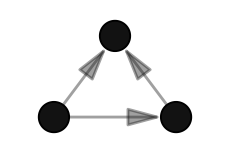
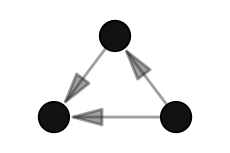
Arrowheads are left off only in the "layered" and "railway" layouts

Changed region(s): [[0.2739, 0.3137, 0.4565, 0.6797], [0.5478, 0.7059, 0.7, 0.8366], [0.3043, 0.7059, 0.4565, 0.8366]]

diff --git a/inst/tutorials/autograph1/visualisation.html b/inst/tutorials/autograph1/visualisation.html
@@ -775,11 +775,12 @@ read as darker.</li>
 <p>Most of these you do not set by hand — but because every graph is a
 <code>{ggplot2}</code> object, you can always override them by dropping
 down to <code>{ggraph}</code> (see the <em>Going further with
-ggraph</em> section near the end of this tutorial).position of the nodes
-gets a topic of its own (<em>Layouts</em>), as do <code>isolates=</code>
-and <code>edge_bundle=</code> (<em>Ew, hairballs</em>), and you met
-<code>labels=</code> on the previous page. This page takes the rest in
-turn. Each of the mapping arguments can be given either a literal value
+ggraph</em> section near the end of this tutorial).</p>
+<p>The position of the nodes gets a topic of its own (<em>Layouts</em>),
+as do <code>isolates=</code> and <code>edge_bundle=</code> (<em>Ew,
+hairballs</em>), and you met <code>labels=</code> on the previous page.
+This page takes the rest in turn.</p>
+<p>Each of the mapping arguments can be given either a literal value
 (e.g. <code>node_size = 6</code>) or, more interestingly, the name of a
 node or tie attribute in the data
 (e.g. <code>node_colour = "Race"</code>), in which case
@@ -3142,19 +3143,19 @@ session$onSessionEnded(function() {
 <script type="application/shiny-prerendered" data-context="server">
 learnr:::question_prerendered_chunk(structure(list(type = "learnr_radio", label = "data-flavours-Q", 
     question = structure("Which prefix marks the larger, more realistic networks bundled with the stocnet packages?", html = TRUE, class = c("html", 
-    "character")), answers = list(structure(list(id = "lnr_ans_1d1baab", 
+    "character")), answers = list(structure(list(id = "lnr_ans_8686e5", 
         option = "irps_", value = "irps_", label = structure("irps_", html = TRUE, class = c("html", 
         "character")), correct = TRUE, message = structure("Right — the irps_ datasets are the real-world ones, so they are the most demanding to graph. No mistakes here, just happy little accidents. <img src='https://media1.tenor.com/m/gHo3jnYbDYwAAAAC/bob-ross-painting.gif' alt='gif of Bob Ross painting a happy little landscape'/>", html = TRUE, class = c("html", 
         "character")), type = "literal"), class = c("tutorial_question_answer", 
-    "tutorial_quiz_answer")), structure(list(id = "lnr_ans_cf83630", 
+    "tutorial_quiz_answer")), structure(list(id = "lnr_ans_3a03af9", 
         option = "ison_", value = "ison_", label = structure("ison_", html = TRUE, class = c("html", 
         "character")), correct = FALSE, message = structure("The ison_ datasets are the classics: small, tidy, and a good place to start.", html = TRUE, class = c("html", 
         "character")), type = "literal"), class = c("tutorial_question_answer", 
-    "tutorial_quiz_answer")), structure(list(id = "lnr_ans_ad56112", 
+    "tutorial_quiz_answer")), structure(list(id = "lnr_ans_426bc25", 
         option = "fict_", value = "fict_", label = structure("fict_", html = TRUE, class = c("html", 
         "character")), correct = FALSE, message = structure("The fict_ datasets are fictional networks, mid-sized and fun, but not the largest.", html = TRUE, class = c("html", 
         "character")), type = "literal"), class = c("tutorial_question_answer", 
-    "tutorial_quiz_answer")), structure(list(id = "lnr_ans_3d30ca4", 
+    "tutorial_quiz_answer")), structure(list(id = "lnr_ans_19bcf38", 
         option = "net_", value = "net_", label = structure("net_", html = TRUE, class = c("html", 
         "character")), correct = FALSE, message = structure("There is no net_ prefix for data — net_* are measures of whole networks.", html = TRUE, class = c("html", 
         "character")), type = "literal"), class = c("tutorial_question_answer", 
@@ -3166,7 +3167,7 @@ learnr:::question_prerendered_chunk(structure(list(type = "learnr_radio", label 
     "character")), message = NULL, post_message = NULL), ids = list(
         answer = "data-flavours-Q-answer", question = "data-flavours-Q"), 
     loading = NULL, random_answer_order = TRUE, allow_retry = TRUE, 
-    seed = 1598323148.25572, options = list()), class = c("learnr_radio", 
+    seed = 1748065148.68599, options = list()), class = c("learnr_radio", 
 "tutorial_question")), session = session)
 </script>
 
@@ -3304,23 +3305,23 @@ learnr:::store_exercise_cache(structure(list(label = "agsimple", global_setup = 
 <script type="application/shiny-prerendered" data-context="server">
 learnr:::question_prerendered_chunk(structure(list(type = "learnr_radio", label = "graphr-classes-Q", 
     question = structure("Which network objects can graphr() draw?", html = TRUE, class = c("html", 
-    "character")), answers = list(structure(list(id = "lnr_ans_ea7d496", 
+    "character")), answers = list(structure(list(id = "lnr_ans_da0a35c", 
         option = "Any manynet-compatible class, including igraph, network, tidygraph, matrices, and edgelists", 
         value = "Any manynet-compatible class, including igraph, network, tidygraph, matrices, and edgelists", 
         label = structure("Any manynet-compatible class, including igraph, network, tidygraph, matrices, and edgelists", html = TRUE, class = c("html", 
         "character")), correct = TRUE, message = structure("Right — graphr() coerces compatible objects internally, so you rarely need to convert anything first. <img src='https://media1.tenor.com/m/LLLJYVQJNVAAAAAC/chefs-kiss-french-chef.gif' alt='gif of a chef giving a chefs kiss'/>", html = TRUE, class = c("html", 
         "character")), type = "literal"), class = c("tutorial_question_answer", 
-    "tutorial_quiz_answer")), structure(list(id = "lnr_ans_de8128d", 
+    "tutorial_quiz_answer")), structure(list(id = "lnr_ans_abc9ad3", 
         option = "Only igraph objects", value = "Only igraph objects", 
         label = structure("Only igraph objects", html = TRUE, class = c("html", 
         "character")), correct = FALSE, message = structure("That is plot.igraph(). graphr() handles igraph objects too, but not only those.", html = TRUE, class = c("html", 
         "character")), type = "literal"), class = c("tutorial_question_answer", 
-    "tutorial_quiz_answer")), structure(list(id = "lnr_ans_fcf88ab", 
+    "tutorial_quiz_answer")), structure(list(id = "lnr_ans_51ff859", 
         option = "Only tidygraph (tbl_graph) objects", value = "Only tidygraph (tbl_graph) objects", 
         label = structure("Only tidygraph (tbl_graph) objects", html = TRUE, class = c("html", 
         "character")), correct = FALSE, message = structure("That is what ggraph::ggraph() expects. graphr() is more catholic.", html = TRUE, class = c("html", 
         "character")), type = "literal"), class = c("tutorial_question_answer", 
-    "tutorial_quiz_answer")), structure(list(id = "lnr_ans_b5767fd", 
+    "tutorial_quiz_answer")), structure(list(id = "lnr_ans_c3edc81", 
         option = "Only networks bundled in manynet", value = "Only networks bundled in manynet", 
         label = structure("Only networks bundled in manynet", html = TRUE, class = c("html", 
         "character")), correct = FALSE, message = structure("The bundled data are just convenient examples — any compatible network object works.", html = TRUE, class = c("html", 
@@ -3333,7 +3334,7 @@ learnr:::question_prerendered_chunk(structure(list(type = "learnr_radio", label 
     "character")), message = NULL, post_message = NULL), ids = list(
         answer = "graphr-classes-Q-answer", question = "graphr-classes-Q"), 
     loading = NULL, random_answer_order = TRUE, allow_retry = TRUE, 
-    seed = 286795729.36645, options = list()), class = c("learnr_radio", 
+    seed = 1527832624.28855, options = list()), class = c("learnr_radio", 
 "tutorial_question")), session = session)
 </script>
  
@@ -3960,20 +3961,20 @@ learnr:::store_exercise_cache(structure(list(label = "sizecolour", global_setup 
 <script type="application/shiny-prerendered" data-context="server">
 learnr:::question_prerendered_chunk(structure(list(type = "learnr_radio", label = "aes-choice-Q", 
     question = structure("Which aesthetic is generally most appropriate for a <em>continuous<\u002fem> node attribute, such as degree or age?", html = TRUE, class = c("html", 
-    "character")), answers = list(structure(list(id = "lnr_ans_912437e", 
+    "character")), answers = list(structure(list(id = "lnr_ans_1636133", 
         option = "Size", value = "Size", label = structure("Size", html = TRUE, class = c("html", 
         "character")), correct = TRUE, message = structure("Yes — our eyes read graded sizes as graded quantities. Colour gradients also work, as you have just seen, but shades are harder to compare precisely than sizes. <img src='https://media1.tenor.com/m/AYxBhVmi0p4AAAAC/mixing-paint-peter-draws.gif' alt='gif of an artist swirling paint colours together on a palette'/>", html = TRUE, class = c("html", 
         "character")), type = "literal"), class = c("tutorial_question_answer", 
-    "tutorial_quiz_answer")), structure(list(id = "lnr_ans_882aee9", 
+    "tutorial_quiz_answer")), structure(list(id = "lnr_ans_2ffef7d", 
         option = "Shape", value = "Shape", label = structure("Shape", html = TRUE, class = c("html", 
         "character")), correct = FALSE, message = structure("Shapes are categorical: there is no natural ordering from circle to triangle to square.", html = TRUE, class = c("html", 
         "character")), type = "literal"), class = c("tutorial_question_answer", 
-    "tutorial_quiz_answer")), structure(list(id = "lnr_ans_44b7287", 
+    "tutorial_quiz_answer")), structure(list(id = "lnr_ans_d814916", 
         option = "Group shading (node_group)", value = "Group shading (node_group)", 
         label = structure("Group shading (node_group)", html = TRUE, class = c("html", 
         "character")), correct = FALSE, message = structure("Group shading highlights membership in discrete groups, not amounts.", html = TRUE, class = c("html", 
         "character")), type = "literal"), class = c("tutorial_question_answer", 
-    "tutorial_quiz_answer")), structure(list(id = "lnr_ans_6de376f", 
+    "tutorial_quiz_answer")), structure(list(id = "lnr_ans_c8cd2cf", 
         option = "Labels", value = "Labels", label = structure("Labels", html = TRUE, class = c("html", 
         "character")), correct = FALSE, message = structure("You could print the values as labels, but the point of graphing is to see patterns at a glance.", html = TRUE, class = c("html", 
         "character")), type = "literal"), class = c("tutorial_question_answer", 
@@ -3985,7 +3986,7 @@ learnr:::question_prerendered_chunk(structure(list(type = "learnr_radio", label 
     "character")), message = NULL, post_message = NULL), ids = list(
         answer = "aes-choice-Q-answer", question = "aes-choice-Q"), 
     loading = NULL, random_answer_order = TRUE, allow_retry = TRUE, 
-    seed = 1110778386.98275, options = list()), class = c("learnr_radio", 
+    seed = 867866287.095868, options = list()), class = c("learnr_radio", 
 "tutorial_question")), session = session)
 </script>
 
@@ -4408,19 +4409,19 @@ learnr:::store_exercise_cache(structure(list(label = "colourch", global_setup = 
 
 <script type="application/shiny-prerendered" data-context="server">
 learnr:::question_prerendered_chunk(structure(list(type = "learnr_radio", label = "fill-Q", question = structure("Why does changing node colours use scale_fill_<em>() functions rather than scale_color_<\u002fem>()?", html = TRUE, class = c("html", 
-"character")), answers = list(structure(list(id = "lnr_ans_fa72838", 
+"character")), answers = list(structure(list(id = "lnr_ans_41c0110", 
     option = "Because nodes are drawn as filled shapes, so their interior colour is the 'fill' aesthetic", 
     value = "Because nodes are drawn as filled shapes, so their interior colour is the 'fill' aesthetic", 
     label = structure("Because nodes are drawn as filled shapes, so their interior colour is the ‘fill’ aesthetic", html = TRUE, class = c("html", 
     "character")), correct = TRUE, message = structure("Correct, ‘color’ in ggplot2 refers to outlines and lines, while the interior of a filled shape is its ‘fill’. That is not just blue, it is cerulean. <img src='https://media1.tenor.com/m/wI7dn3jz6p8AAAAC/prada-cerulean.gif' alt='gif from The Devil Wears Prada: that is not just blue, that is cerulean'/>", html = TRUE, class = c("html", 
     "character")), type = "literal"), class = c("tutorial_question_answer", 
-"tutorial_quiz_answer")), structure(list(id = "lnr_ans_3bcb8fe", 
+"tutorial_quiz_answer")), structure(list(id = "lnr_ans_d1301a9", 
     option = "Because scale_color_*() functions do not exist in ggplot2", 
     value = "Because scale_color_*() functions do not exist in ggplot2", 
     label = structure("Because scale_color_*() functions do not exist in ggplot2", html = TRUE, class = c("html", 
     "character")), correct = FALSE, message = structure("They do exist — they control the colour aesthetic, used e.g. for lines and outlines.", html = TRUE, class = c("html", 
     "character")), type = "literal"), class = c("tutorial_question_answer", 
-"tutorial_quiz_answer")), structure(list(id = "lnr_ans_f27114a", 
+"tutorial_quiz_answer")), structure(list(id = "lnr_ans_50db04f", 
     option = "It is an arbitrary choice and either would work", 
     value = "It is an arbitrary choice and either would work", 
     label = structure("It is an arbitrary choice and either would work", html = TRUE, class = c("html", 
@@ -4433,7 +4434,7 @@ learnr:::question_prerendered_chunk(structure(list(type = "learnr_radio", label 
 "character")), incorrect = structure("Incorrect", html = TRUE, class = c("html", 
 "character")), message = NULL, post_message = NULL), ids = list(
     answer = "fill-Q-answer", question = "fill-Q"), loading = NULL, 
-    random_answer_order = TRUE, allow_retry = TRUE, seed = 1666380311.22403, 
+    random_answer_order = TRUE, allow_retry = TRUE, seed = 1933663139.09957, 
     options = list()), class = c("learnr_radio", "tutorial_question"
 )), session = session)
 </script>
@@ -4857,11 +4858,11 @@ learnr:::store_exercise_cache(structure(list(label = "scaling", global_setup = s
 <script type="application/shiny-prerendered" data-context="server">
 learnr:::question_prerendered_chunk(structure(list(type = "learnr_radio", label = "spectralinterp-Q", 
     question = structure("Can we interpret the distance between nodes in spectral and MDS layouts?", html = TRUE, class = c("html", 
-    "character")), answers = list(structure(list(id = "lnr_ans_ff8cfc0", 
+    "character")), answers = list(structure(list(id = "lnr_ans_27bc482", 
         option = "Yes", value = "Yes", label = structure("Yes", html = TRUE, class = c("html", 
         "character")), correct = TRUE, message = structure("That’s right — in these layouts proximity reflects measured (dis)similarity, though how far to trust it is another question. The stress score reported under a “scaling” layout is what answers that one.", html = TRUE, class = c("html", 
         "character")), type = "literal"), class = c("tutorial_question_answer", 
-    "tutorial_quiz_answer")), structure(list(id = "lnr_ans_663fbb0", 
+    "tutorial_quiz_answer")), structure(list(id = "lnr_ans_db4f5eb", 
         option = "No", value = "No", label = structure("No", html = TRUE, class = c("html", 
         "character")), correct = FALSE, message = structure("Unlike force-directed layouts, spectral and MDS layouts place nodes according to calculated similarities, so distances do carry meaning here.", html = TRUE, class = c("html", 
         "character")), type = "literal"), class = c("tutorial_question_answer", 
@@ -4873,7 +4874,7 @@ learnr:::question_prerendered_chunk(structure(list(type = "learnr_radio", label 
     "character")), message = NULL, post_message = NULL), ids = list(
         answer = "spectralinterp-Q-answer", question = "spectralinterp-Q"), 
     loading = NULL, random_answer_order = FALSE, allow_retry = TRUE, 
-    seed = 1732730160.69313, options = list()), class = c("learnr_radio", 
+    seed = 1100209271.98768, options = list()), class = c("learnr_radio", 
 "tutorial_question")), session = session)
 </script>
 
@@ -4921,18 +4922,18 @@ learnr:::store_exercise_cache(structure(list(label = "correspondence", global_se
 
 <script type="application/shiny-prerendered" data-context="server">
 learnr:::question_prerendered_chunk(structure(list(type = "learnr_radio", label = "corresp-Q", question = structure("In a <code>&quot;correspondence&quot;<\u002fcode> layout of <code>ison_southern_women<\u002fcode>, Helen is drawn closer to event E9 than to any other event. What does that tell us?", html = TRUE, class = c("html", 
-"character")), answers = list(structure(list(id = "lnr_ans_9f73bf", 
+"character")), answers = list(structure(list(id = "lnr_ans_f43169c", 
     option = "Less than it appears: only distances within a mode can be read", 
     value = "Less than it appears: only distances within a mode can be read", 
     label = structure("Less than it appears: only distances within a mode can be read", html = TRUE, class = c("html", 
     "character")), correct = TRUE, message = structure("That’s right — a row point near a column point is not a claim about the two of them. Helen did not attend E9 at all. Compare women with women, and events with events.", html = TRUE, class = c("html", 
     "character")), type = "literal"), class = c("tutorial_question_answer", 
-"tutorial_quiz_answer")), structure(list(id = "lnr_ans_e2229ab", 
+"tutorial_quiz_answer")), structure(list(id = "lnr_ans_318b49b", 
     option = "That Helen attended E9", value = "That Helen attended E9", 
     label = structure("That Helen attended E9", html = TRUE, class = c("html", 
     "character")), correct = FALSE, message = structure("Not necessarily. The two modes share a pair of axes, but the distance between a woman and an event is not a distance you can read. Compare women with women instead.", html = TRUE, class = c("html", 
     "character")), type = "literal"), class = c("tutorial_question_answer", 
-"tutorial_quiz_answer")), structure(list(id = "lnr_ans_630ffc9", 
+"tutorial_quiz_answer")), structure(list(id = "lnr_ans_aec743f", 
     option = "That Helen was the only woman not to attend E9", 
     value = "That Helen was the only woman not to attend E9", 
     label = structure("That Helen was the only woman not to attend E9", html = TRUE, class = c("html", 
@@ -4945,7 +4946,7 @@ learnr:::question_prerendered_chunk(structure(list(type = "learnr_radio", label 
 "character")), incorrect = structure("Incorrect", html = TRUE, class = c("html", 
 "character")), message = NULL, post_message = NULL), ids = list(
     answer = "corresp-Q-answer", question = "corresp-Q"), loading = NULL, 
-    random_answer_order = FALSE, allow_retry = TRUE, seed = 1899946555.11527, 
+    random_answer_order = FALSE, allow_retry = TRUE, seed = 516119524.259663, 
     options = list()), class = c("learnr_radio", "tutorial_question"
 )), session = session)
 </script>
@@ -5408,24 +5409,24 @@ learnr:::store_exercise_cache(structure(list(label = "snap", global_setup = stru
  
 <script type="application/shiny-prerendered" data-context="server">
 learnr:::question_prerendered_chunk(structure(list(type = "learnr_radio", label = "snap-Q", question = structure("What does snap = TRUE do to the layout you asked for?", html = TRUE, class = c("html", 
-"character")), answers = list(structure(list(id = "lnr_ans_8311f87", 
+"character")), answers = list(structure(list(id = "lnr_ans_e4c6d4b", 
     option = "It keeps that layout, but moves each node onto the nearest grid coordinate", 
     value = "It keeps that layout, but moves each node onto the nearest grid coordinate", 
     label = structure("It keeps that layout, but moves each node onto the nearest grid coordinate", html = TRUE, class = c("html", 
     "character")), correct = TRUE, message = structure("Exactly — the arrangement stays recognisable, and the nodes just shuffle onto tidier positions. <img src='https://media1.tenor.com/m/06gR6YNAA6IAAAAd/family-guy-cartermiroquai.gif' alt='gif of a cartoon character energetically rearranging the living room furniture'/>", html = TRUE, class = c("html", 
     "character")), type = "literal"), class = c("tutorial_question_answer", 
-"tutorial_quiz_answer")), structure(list(id = "lnr_ans_4d4deb7", 
+"tutorial_quiz_answer")), structure(list(id = "lnr_ans_170fc8d", 
     option = "It replaces that layout with the grid layout", 
     value = "It replaces that layout with the grid layout", label = structure("It replaces that layout with the grid layout", html = TRUE, class = c("html", 
     "character")), correct = FALSE, message = structure("That is layout = ‘grid’. With snap = TRUE the chosen layout is computed first, and only then rounded onto a grid.", html = TRUE, class = c("html", 
     "character")), type = "literal"), class = c("tutorial_question_answer", 
-"tutorial_quiz_answer")), structure(list(id = "lnr_ans_d48e18b", 
+"tutorial_quiz_answer")), structure(list(id = "lnr_ans_da6954e", 
     option = "It fixes the layout so that it is the same each time it is run", 
     value = "It fixes the layout so that it is the same each time it is run", 
     label = structure("It fixes the layout so that it is the same each time it is run", html = TRUE, class = c("html", 
     "character")), correct = FALSE, message = structure("Some layouts, such as ‘stress’, are already deterministic. Snapping is about grid coordinates, not repeatability.", html = TRUE, class = c("html", 
     "character")), type = "literal"), class = c("tutorial_question_answer", 
-"tutorial_quiz_answer")), structure(list(id = "lnr_ans_bd69074", 
+"tutorial_quiz_answer")), structure(list(id = "lnr_ans_cf56fd0", 
     option = "It removes overlapping labels", value = "It removes overlapping labels", 
     label = structure("It removes overlapping labels", html = TRUE, class = c("html", 
     "character")), correct = FALSE, message = structure("Snapping often helps label legibility, but it moves nodes rather than labels. Use label_repel and label_dist for labels.", html = TRUE, class = c("html", 
@@ -5437,7 +5438,7 @@ learnr:::question_prerendered_chunk(structure(list(type = "learnr_radio", label 
 "character")), incorrect = structure("Incorrect", html = TRUE, class = c("html", 
 "character")), message = NULL, post_message = NULL), ids = list(
     answer = "snap-Q-answer", question = "snap-Q"), loading = NULL, 
-    random_answer_order = TRUE, allow_retry = TRUE, seed = 1715884494.70098, 
+    random_answer_order = TRUE, allow_retry = TRUE, seed = 1953794456.59019, 
     options = list()), class = c("learnr_radio", "tutorial_question"
 )), session = session)
 </script>
@@ -5489,11 +5490,11 @@ learnr:::store_exercise_cache(structure(list(label = "forcedir", global_setup = 
 <script type="application/shiny-prerendered" data-context="server">
 learnr:::question_prerendered_chunk(structure(list(type = "learnr_radio", label = "layoutinterp-Q", 
     question = structure("Can we interpret the distance between two nodes in a force-directed layout as a precise measure of how closely they are related?", html = TRUE, class = c("html", 
-    "character")), answers = list(structure(list(id = "lnr_ans_4ced6cd", 
+    "character")), answers = list(structure(list(id = "lnr_ans_f13fbdc", 
         option = "No", value = "No", label = structure("No", html = TRUE, class = c("html", 
         "character")), correct = TRUE, message = structure("That’s right — force-directed layouts are illustrative. Nearby nodes are often closely connected, but distances are a by-product of the algorithm, not a measurement to cite. The force moves the nodes, but it does not measure them. <img src='https://giffiles.alphacoders.com/131/13131.gif' alt='gif of yoda moving things with the force'/>", html = TRUE, class = c("html", 
         "character")), type = "literal"), class = c("tutorial_question_answer", 
-    "tutorial_quiz_answer")), structure(list(id = "lnr_ans_8530923", 
+    "tutorial_quiz_answer")), structure(list(id = "lnr_ans_ffd6316", 
         option = "Yes", value = "Yes", label = structure("Yes", html = TRUE, class = c("html", 
         "character")), correct = FALSE, message = structure("Careful — two nodes can end up near each other simply because the algorithm ran out of better places to put them. Use spectral or MDS layouts if you need interpretable distances. No mistakes here though, just a happy little accident. <img src='https://media1.tenor.com/m/XP2eqZczZ2MAAAAC/bob-ross-happy.gif' alt='gif of Bob Ross smiling in front of a painting'/>", html = TRUE, class = c("html", 
         "character")), type = "literal"), class = c("tutorial_question_answer", 
@@ -5505,7 +5506,7 @@ learnr:::question_prerendered_chunk(structure(list(type = "learnr_radio", label 
     "character")), message = NULL, post_message = NULL), ids = list(
         answer = "layoutinterp-Q-answer", question = "layoutinterp-Q"), 
     loading = NULL, random_answer_order = FALSE, allow_retry = TRUE, 
-    seed = 1970289467.58251, options = list()), class = c("learnr_radio", 
+    seed = 1438135050.33032, options = list()), class = c("learnr_radio", 
 "tutorial_question")), session = session)
 </script>
  
@@ -6333,7 +6334,7 @@ learnr:::question_prerendered_chunk(structure(list(type = "learnr_radio", label 
 <!--/html_preserve-->
 <!--html_preserve-->
 <script type="application/shiny-prerendered" data-context="execution_dependencies">
-{"type":"list","attributes":{"names":{"type":"character","attributes":{},"value":["packages"]}},"value":[{"type":"list","attributes":{"names":{"type":"character","attributes":{},"value":["packages","version"]},"class":{"type":"character","attributes":{},"value":["data.frame"]},"row.names":{"type":"integer","attributes":{},"value":[1,2,3,4,5,6,7,8,9,10,11,12,13,14,15,16,17,18,19,20,21,22,23,24,25,26,27,28,29,30,31,32,33,34,35,36,37,38,39,40,41,42,43,44,45,46,47,48,49,50,51,52,53,54,55,56,57,58,59,60,61,62,63,64,65,66,67,68,69,70,71,72,73,74,75,76,77,78,79,80,81,82,83,84,85,86,87,88,89,90,91,92,93,94,95,96,97,98,99,100,101,102,103,104,105,106,107,108,109,110,111,112,113,114,115,116,117,118,119,120,121]}},"value":[{"type":"character","attributes":{},"value":["askpass","autograph","backports","base","brio","bslib","cachem","checkmate","cli","coda","commonmark","compiler","crayon","data.table","datasets","desc","devtools","digest","dplyr","ellipsis","english","evaluate","farver","fastmap","fontawesome","fs","generics","ggforce","ggplot2","ggraph","ggrepel","glue","graphics","graphlayouts","grDevices","grid","gridExtra","gtable","htmltools","htmlwidgets","httpuv","igraph","jquerylib","jsonlite","knitr","labeling","later","lattice","learnr","lifecycle","litedown","lubridate","magrittr","manynet","manypkgs","markdown","MASS","Matrix","memoise","messydates","methods","mime","netrics","network","NLP","otel","parallel","patchwork","pdftools","pillar","pkgbuild","pkgconfig","pkgload","polyclip","promises","purrr","qdapRegex","qpdf","R6","ragg","RColorBrewer","Rcpp","remotes","rlang","rmarkdown","rprojroot","rstudioapi","S7","sass","scales","sessioninfo","shiny","slam","statnet.common","stats","stringdist","stringi","stringr","systemfonts","testthat","textclean","textshaping","tibble","tidygraph","tidyr","tidyselect","timechange","tm","tools","tweenr","usethis","utils","vctrs","viridis","viridisLite","whisker","withr","xfun","xml2","xtable","yaml"]},{"type":"character","attributes":{},"value":["1.2.1","1.2.4","1.5.1","4.6.1","1.1.5","0.12.0","1.1.0","2.3.4","3.6.6","0.19-4.1","2.0.0","4.6.1","1.5.3","1.18.6.1","4.6.1","1.4.3","2.5.2","0.6.39","1.2.1","0.3.3","1.2-6","1.0.5","2.1.2","1.2.0","0.5.3","2.1.0","0.1.4","0.5.0","4.0.3","2.2.2","0.9.8","1.8.1","4.6.1","1.2.5","4.6.1","4.6.1","2.3.1","0.3.6","0.5.9","1.6.4","1.6.17","2.3.3","0.1.4","2.0.0","1.51","0.4.3","1.4.8","0.23-1","0.11.6","1.0.5","0.10","1.9.5","2.0.5","2.4.0","0.3.1","2.0","7.3-66","1.7-6","2.0.1","1.1.1","4.6.1","0.13","1.1.0","1.20.0","0.3-3","0.2.0","4.6.1","1.3.2","3.9.0","1.11.1","1.4.8","2.0.3","1.5.3","1.10-7","1.5.0","1.2.2","0.7.10","1.4.1","2.6.1","1.5.2","1.1-3","1.1.2","2.5.0.9000","1.3.0","2.31","2.1.1","0.19.0","0.2.2","0.4.10","1.4.0","1.2.4","1.14.0","0.1-56","4.13.0","4.6.1","0.9.17","1.8.9","1.6.0","1.3.2","3.3.2","0.9.7","1.0.5","3.3.1","1.3.1","1.3.2","1.2.1","0.4.0","0.7-18","4.6.1","2.0.3","3.2.1","4.6.1","0.7.3","0.6.5","0.4.3","0.4.1","3.0.3","0.60","1.6.0","1.8-8","2.3.12"]}]}]}
+{"type":"list","attributes":{"names":{"type":"character","attributes":{},"value":["packages"]}},"value":[{"type":"list","attributes":{"names":{"type":"character","attributes":{},"value":["packages","version"]},"class":{"type":"character","attributes":{},"value":["data.frame"]},"row.names":{"type":"integer","attributes":{},"value":[1,2,3,4,5,6,7,8,9,10,11,12,13,14,15,16,17,18,19,20,21,22,23,24,25,26,27,28,29,30,31,32,33,34,35,36,37,38,39,40,41,42,43,44,45,46,47,48,49,50,51,52,53,54,55,56,57,58,59,60,61,62,63,64,65,66,67,68,69,70,71,72,73,74,75,76,77,78,79,80,81,82,83,84,85,86,87,88]}},"value":[{"type":"character","attributes":{},"value":["autograph","backports","base","bslib","cachem","checkmate","cli","coda","commonmark","compiler","datasets","digest","dplyr","evaluate","farver","fastmap","fontawesome","generics","ggforce","ggplot2","ggraph","ggrepel","glue","graphics","graphlayouts","grDevices","grid","gridExtra","gtable","htmltools","htmlwidgets","httpuv","igraph","jquerylib","jsonlite","knitr","labeling","later","lattice","learnr","lifecycle","litedown","magrittr","manynet","markdown","MASS","Matrix","memoise","methods","mime","netrics","network","otel","patchwork","pillar","pkgconfig","polyclip","promises","purrr","R6","ragg","RColorBrewer","Rcpp","rlang","rmarkdown","rprojroot","S7","sass","scales","shiny","statnet.common","stats","systemfonts","textshaping","tibble","tidygraph","tidyr","tidyselect","tools","tweenr","utils","vctrs","viridis","viridisLite","withr","xfun","xtable","yaml"]},{"type":"character","attributes":{},"value":["1.2.4","1.5.1","4.6.1","0.12.0","1.1.0","2.3.4","3.6.6","0.19-4.1","2.0.0","4.6.1","4.6.1","0.6.39","1.2.1","1.0.5","2.1.2","1.2.0","0.5.3","0.1.4","0.5.0","4.0.3","2.2.2","0.9.8","1.8.1","4.6.1","1.2.5","4.6.1","4.6.1","2.3.1","0.3.6","0.5.9","1.6.4","1.6.17","2.3.3","0.1.4","2.0.0","1.51","0.4.3","1.4.8","0.23-1","0.11.6","1.0.5","0.10","2.0.5","2.4.0","2.0","7.3-66","1.7-6","2.0.1","4.6.1","0.13","1.1.0","1.20.0","0.2.0","1.3.2","1.11.1","2.0.3","1.10-7","1.5.0","1.2.2","2.6.1","1.5.2","1.1-3","1.1.2","1.3.0","2.31","2.1.1","0.2.2","0.4.10","1.4.0","1.14.0","4.13.0","4.6.1","1.3.2","1.0.5","3.3.1","1.3.1","1.3.2","1.2.1","4.6.1","2.0.3","4.6.1","0.7.3","0.6.5","0.4.3","3.0.3","0.60","1.8-8","2.3.12"]}]}]}
 </script>
 <!--/html_preserve-->
 </div>

diff --git a/NEWS.md b/NEWS.md
@@ -10,6 +10,7 @@
 ## Graphing
 
 - Improved concept lattice drawing so that it is drawn as a Hasse diagram
+  - Arrowheads are left off only in the "layered" and "railway" layouts, where each tie points down the page
 - Fixed `graphr()` warning about ties that an automatically chosen backbone was drawn from
 
 ## Aesthetics
